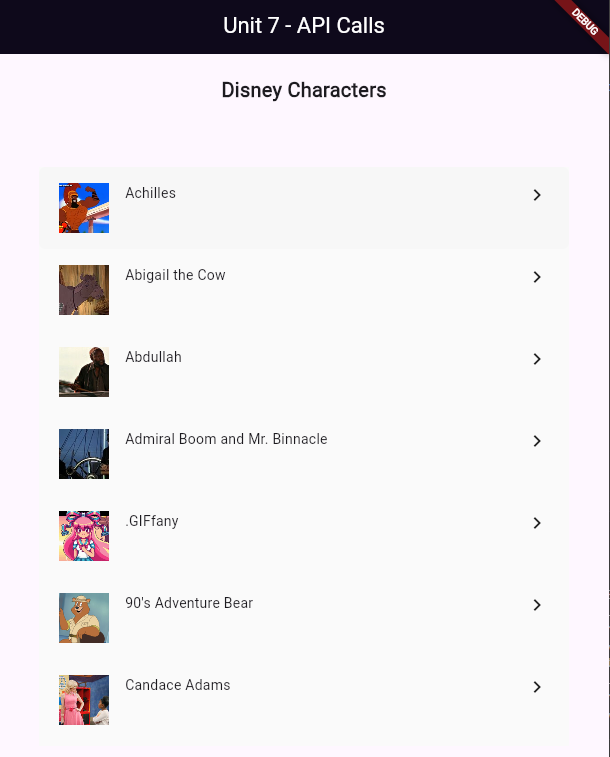
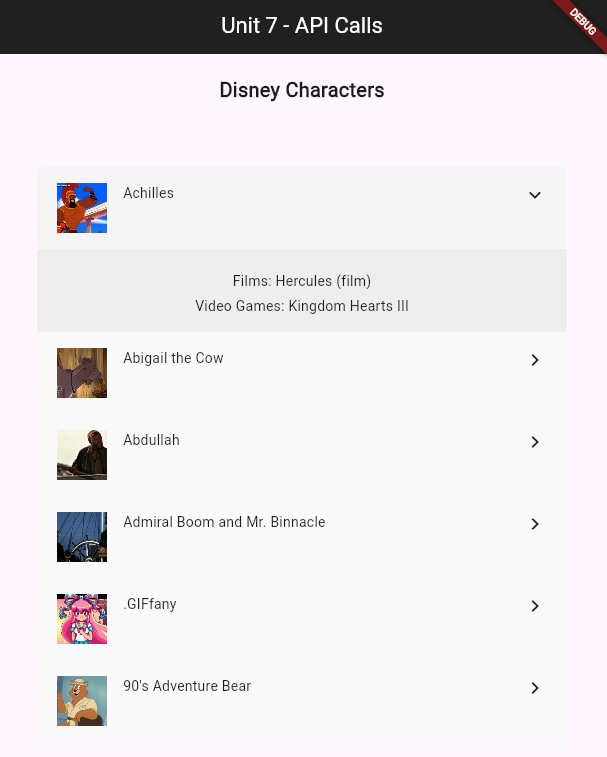
fixed readme and changed the preview

diff --git a/README.md b/README.md
@@ -6,5 +6,7 @@ by: Joven Carl Rex P. Biaca
 
 ## Preview
 ![My Image](assets/preview.png)
+
+When image is clicked:
 ![My Image](assets/preview_1.png)
  
